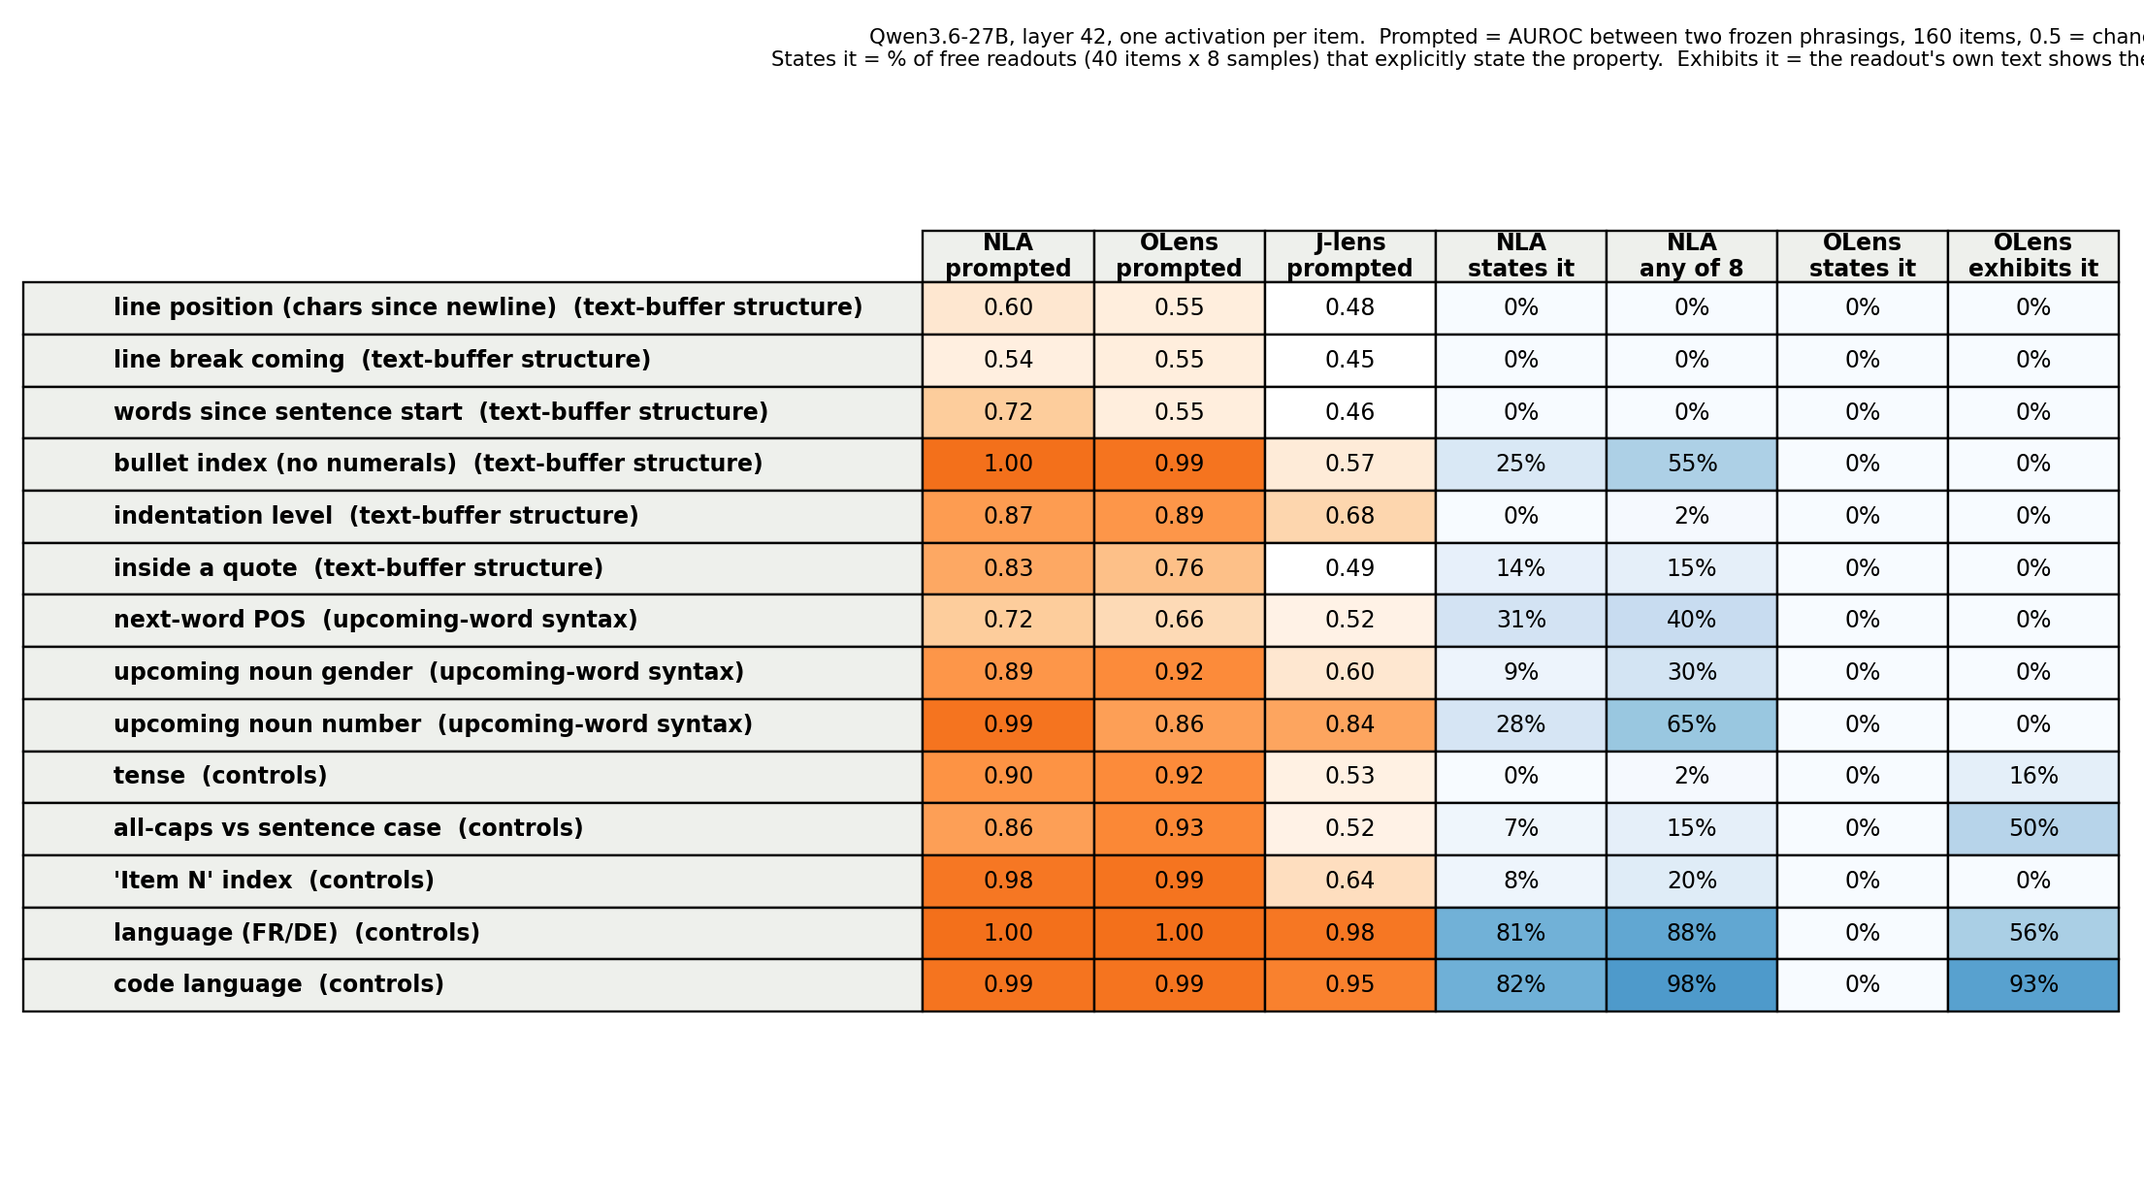
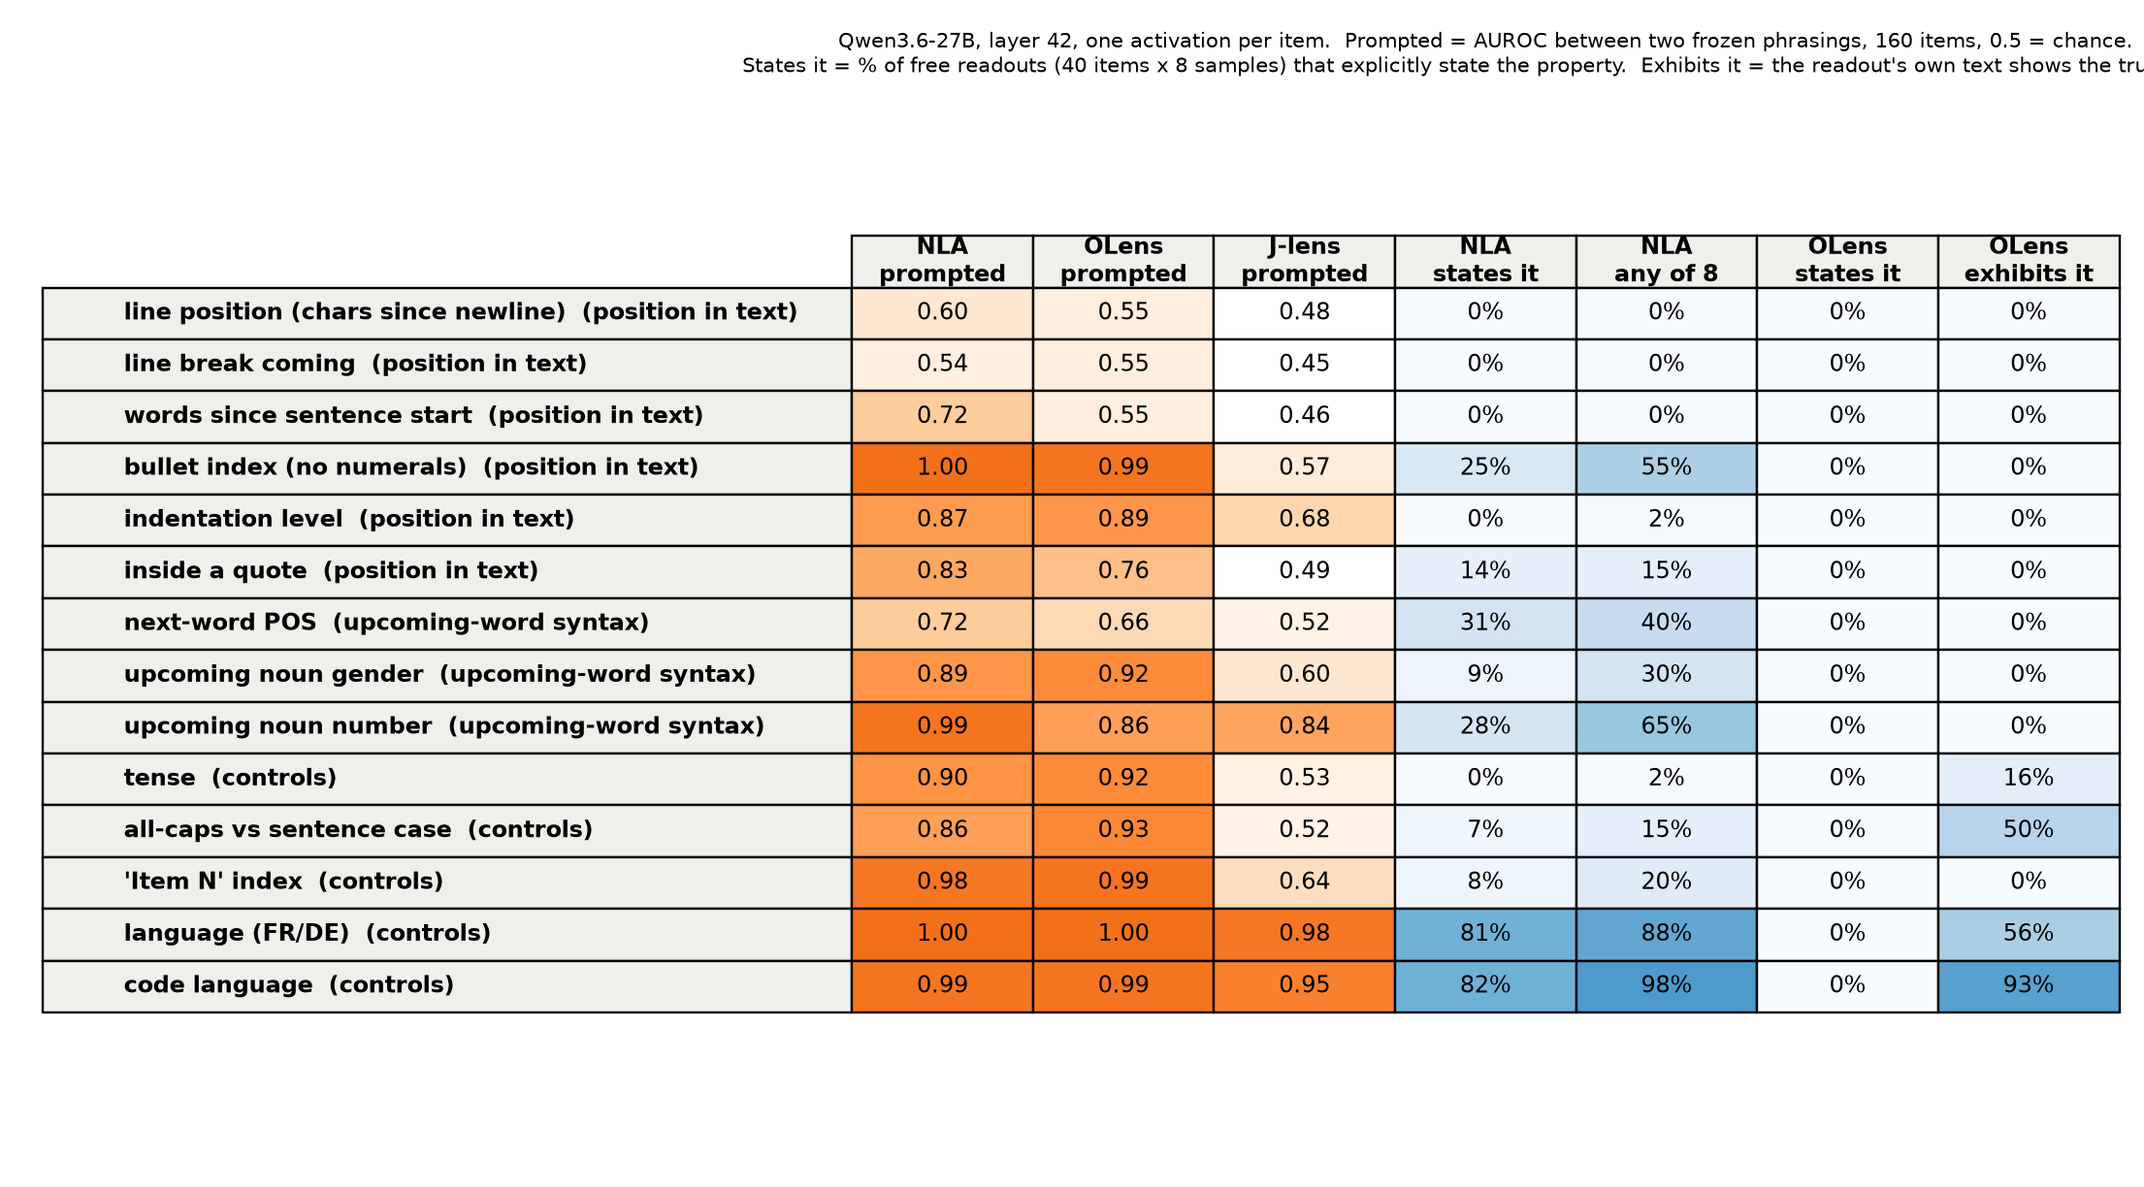
docs: rename concept group 'text-buffer structure' to 'position in text' (clash with the workspace team's term); regenerate exp 12/13 tables

Changed region(s): [[0.0, 0.1863, 0.9991, 0.8693], [0.3434, 0.0, 1.0, 0.0621]]

diff --git a/experiments/13_new_rows/combine13.py b/experiments/13_new_rows/combine13.py
@@ -17,8 +17,8 @@ from recall_lib import aggregate  # noqa: E402
 NAMES = {"tb_sentcount": "sentences into paragraph", "tb_tablecol": "table column", "tb_codeline": "line in function body",
          "tb_paren": "inside a parenthesis", "tb_wordsleft": "words left under a stated limit",
          "fmt_qa": "Q&A vs prose layout", "fmt_listdepth": "list nesting depth", "nj1_col_fresh": "line position, fresh items"}
-GROUP = {"tb_sentcount": "text-buffer structure", "tb_tablecol": "text-buffer structure", "tb_codeline": "text-buffer structure",
-         "tb_paren": "text-buffer structure", "tb_wordsleft": "text-buffer structure", "nj1_col_fresh": "text-buffer structure",
+GROUP = {"tb_sentcount": "position in text", "tb_tablecol": "position in text", "tb_codeline": "position in text",
+         "tb_paren": "position in text", "tb_wordsleft": "position in text", "nj1_col_fresh": "position in text",
          "fmt_qa": "formatting", "fmt_listdepth": "formatting"}
 ORDER = ["nj1_col_fresh", "tb_sentcount", "tb_tablecol", "tb_codeline", "tb_paren", "tb_wordsleft", "fmt_qa", "fmt_listdepth"]
 
@@ -58,7 +58,7 @@ def fmt(x: float, pct: bool) -> str:
     return f"{100 * x:.0f}%" if pct else f"{x:.2f}"
 
 
-GROUP_ORDER = ("text-buffer structure", "formatting", "upcoming-word syntax", "controls")
+GROUP_ORDER = ("position in text", "formatting", "upcoming-word syntax", "controls")
 
 
 def presentation_order(rows: list[dict]) -> list[dict]:

diff --git a/experiments/12_concept_recall/combine.py b/experiments/12_concept_recall/combine.py
@@ -14,7 +14,7 @@ HERE = Path(__file__).resolve().parent
 SEL = HERE.parents[1] / "experiments" / "07_template_mining" / "results" / "selection_table.json"
 ORDER = ["nj1_col", "nj1_col_break", "bk_wordpos", "bk_listidx", "bk_indent", "bk_quote", "nj3_predpos",
          "agr_gender", "agr_number", "nj2_tense", "bk_caps", "ij_listnum", "ij2_lang", "bk_code"]
-GROUP = {f: "text-buffer structure" for f in ORDER[:6]}
+GROUP = {f: "position in text" for f in ORDER[:6]}
 GROUP.update({f: "upcoming-word syntax" for f in ORDER[6:9]})
 GROUP.update({f: "controls (in-workspace)" for f in ORDER[9:]})
 

diff --git a/experiments/13_new_rows/feature_spec.py b/experiments/13_new_rows/feature_spec.py
@@ -1,6 +1,6 @@
 """Exp 13: new concept rows for the per-reader recall table (Neel's thread, 11 Oct).
 
-Five text-buffer rows (the kind Neel called interesting), two formatting rows (Camila's kind, for
+Five position-in-text rows (the kind Neel called interesting), two formatting rows (Camila's kind, for
 comparison), and a fresh line-position bank scored with the frozen exp 07 col templates. Same item
 shape and splits as exp 07: {id, feature, split, cluster, value, ids, text, meta}; 20 + 20 mining
 items and 80 + 80 selection items per feature.

diff --git a/experiments/13_new_rows/RESULTS.md b/experiments/13_new_rows/RESULTS.md
@@ -1,7 +1,7 @@
 # 13 New concept rows for the per-reader recall table (PILOT / EXPLORATORY)
 
 **Why.** Neel's 11 Oct thread asked, per structural concept type, how often each reader finds it, at one
-layer. Exp 12 answered with the 14 exp 07 rows. This adds five text-buffer rows (the kind Neel called
+layer. Exp 12 answered with the 14 exp 07 rows. This adds five position-in-text rows (the kind Neel called
 interesting), two formatting rows (Camila's kind, for comparison) and a fresh line-position bank, built and
 scored exactly as exp 07/12: generated items with the true value known, NLA / OLens / J-lens on the same
 L42 activation, prompted AUROC on 160 held-out items and judged spontaneous recall on 40 items × 8 samples.
@@ -12,14 +12,14 @@ scores. Judge: Gemini 3.8 Flash, 224 calls, $1.02; extraction 14 calls, $0.15.
 
 | Row | Values | Group |
 |---|---|---|
-| sentences into paragraph | 1st–2nd vs 5th+ sentence (6–15 words into it in both) | text-buffer |
-| table column | first cell vs 4th–6th cell of a markdown table row | text-buffer |
-| line in function body | body line 2–3 vs 9–12, flat indentation | text-buffer |
-| inside a parenthesis | 3+ words into an open "(" vs 4+ words after ")" | text-buffer |
-| words left under a stated limit | "Write exactly N words": 20–25 left vs 2–5 left | text-buffer |
+| sentences into paragraph | 1st–2nd vs 5th+ sentence (6–15 words into it in both) | position-in-text |
+| table column | first cell vs 4th–6th cell of a markdown table row | position-in-text |
+| line in function body | body line 2–3 vs 9–12, flat indentation | position-in-text |
+| inside a parenthesis | 3+ words into an open "(" vs 4+ words after ")" | position-in-text |
+| words left under a stated limit | "Write exactly N words": 20–25 left vs 2–5 left | position-in-text |
 | Q&A vs prose layout | same passage as "Question: … Answer: …" vs plain | formatting |
 | list nesting depth | top-level vs third-level markdown bullet | formatting |
-| line position, fresh items | exp 07's generator on unseen paragraphs; frozen nj1_col templates only | text-buffer |
+| line position, fresh items | exp 07's generator on unseen paragraphs; frozen nj1_col templates only | position-in-text |
 
 Code: `feature_spec.py`, `items_build.py` (+ `test_items_build.py`, 9 tests), `modal13.py`, exp 07's
 `extract_templates.py` / `select_freeze.py` (copied, feature tables patched), exp 12's judge via env vars,
@@ -44,9 +44,9 @@ Code: `feature_spec.py`, `items_build.py` (+ `test_items_build.py`, 9 tests), `m
   on inside items and never "outside a parenthesis". Stated values are correct whenever stated. This is the
   same habit seen on bullet index and quote state in exp 12: the NLA reports structure that constrains what
   comes next, not structure as a property of the text.
-- **Three more text-buffer counts are never spoken:** sentences into the paragraph, line number in a code
+- **Three more position-in-text counts are never spoken:** sentences into the paragraph, line number in a code
   body, words remaining under an explicit limit. Together with line position, sentence position and
-  indentation from exp 12, that is six count-like text-buffer concepts with 0% spontaneous mention.
+  indentation from exp 12, that is six count-like position-in-text concepts with 0% spontaneous mention.
 - **Formatting rows (Camila's category) are low**, 4% stated for both, so "the NLA's unique content is
   formatting" is not what we see on controlled items; what it states is completion-relevant structure.
 
@@ -71,7 +71,7 @@ Judge caveat: on table column the judge accepts "a new row/entry is beginning" a
 - **Two clean "NLA reads it, OLens half, J-lens blind" cells, robust to length:** table column (1.00 vs
   0.67 vs 0.64 on length-matched items) and parenthesis state (0.98 vs 0.76 vs 0.47). Both are also the two
   rows the NLA states unprompted (41% / 30%). These are the first prompted cells in the whole table where the
-  NLA clearly beats OLens on a text-buffer concept; on the 14 earlier rows OLens ≥ NLA on 9.
+  NLA clearly beats OLens on a position-in-text concept; on the 14 earlier rows OLens ≥ NLA on 9.
 - **Sentence count and code-line number are confounded with prefix length by construction** (late items are
   always longer; no overlap to re-score). The 0.99s say the NLA separates them but not that it does so by
   counting sentences or lines rather than tokens. Redesign for the next pass: pad early items with an

diff --git a/experiments/12_concept_recall/RESULTS.md b/experiments/12_concept_recall/RESULTS.md
@@ -22,14 +22,14 @@ Date 2026-10-22. Code: `recall_lib.py` (+ `test_recall_lib.py`, 7 tests), `run_j
 
 ## Table
 
-See `results/combined.md` / `.png`. Groups: text-buffer structure (the "interesting" kind), upcoming-word
+See `results/combined.md` / `.png`. Groups: position in text (the "interesting" kind), upcoming-word
 syntax, controls (known in-workspace features).
 
 ## What it says
 
 1. **OLens never states a property.** 0 of 4,480 OLens@42 free readouts state any of the 14
    properties. OLens is a continuation reader: it *exhibits* language (56%), code language (93%),
-   caps (50%) and tense (16%) in its own text, and exhibits nothing detectable for any text-buffer
+   caps (50%) and tense (16%) in its own text, and exhibits nothing detectable for any position-in-text
    or syntax concept. So on Camila's "concepts extracted from the readout" measure, every
    "NLA high / OLens zero" cell is automatic for anything the NLA states at all; the fair
    comparison is NLA-states vs OLens-exhibits vs prompted AUROC.
@@ -39,13 +39,13 @@ syntax, controls (known in-workspace features).
    31%, upcoming noun number 28% ("grammatically requires a plural noun"), gender 9%. These match
    Camila's description of the NLA's unique content ("document format and template structure",
    "mid-unit syntactic incompleteness and required completion category").
-3. **Three text-buffer concepts are never stated by anyone, even when the reader can discriminate
+3. **Three position-in-text concepts are never stated by anyone, even when the reader can discriminate
    them when asked.** Words since sentence start: NLA prompted 0.72 vs OLens 0.51, stated 0%. Line
    position: 0.60 / 0.55, stated 0%. Indentation: 0.87 / 0.89, stated 0% (2% of items). The
    prompted/spontaneous gap is the finding: the information is in the readers' reach but not in
    their vocabulary.
 4. **Prompted, OLens ≥ NLA on 9 of 14; the NLA leads only on words-since-sentence-start (0.72 vs
-   0.51) and quote state (0.83 vs 0.76).** J-Lens is at or near chance on every text-buffer and
+   0.51) and quote state (0.83 vs 0.76).** J-Lens is at or near chance on every position-in-text and
    syntax concept (0.45–0.68) and high only on language/code (0.95–0.98) and noun number (0.84).
    "What OLens finds that J-Lens doesn't" = tense, indentation, bullet index, quote, caps, gender,
    Item-N: 0.76–0.99 vs 0.49–0.68.
@@ -81,7 +81,7 @@ Same 14 concepts, OLens fed the layer-40, 42 or 44 activation (40 and 44 are on 
 - **Stated:** 6 of 13,420 readouts across the three layers state any property (all six are "this is
   Python" at layer 40). OLens states nothing at any layer.
 - **Exhibited:** within a few points across layers (language 56 / 56 / 59%, code 87 / 93 / 94%,
-  caps 44 / 50 / 38%, tense 8 / 16 / 16%); nothing exhibited for any text-buffer or syntax concept.
+  caps 44 / 50 / 38%, tense 8 / 16 / 16%); nothing exhibited for any position-in-text or syntax concept.
 - **Prompted:** every concept within 0.05 across 40 / 42 / 44 (largest spread: indentation 0.86 /
   0.89 / 0.91).
 

diff --git a/experiments/13_new_rows/results/combined_all.md b/experiments/13_new_rows/results/combined_all.md
@@ -1,19 +1,19 @@
 | concept type | group | NLA prompted | OLens prompted | J-lens prompted | NLA states it | NLA any-of-8 | OLens states it | OLens exhibits it |
 |---|---|---|---|---|---|---|---|---|
-| **line position, fresh items** | text-buffer structure | 0.51 | 0.49 | 0.53 | – | – | – | – |
-| **sentences into paragraph** | text-buffer structure | 0.99 | 0.65 | 0.42 | 0% | 0% | 0% | 0% |
-| **table column** | text-buffer structure | 1.00 | 0.74 | 0.64 | 41% | 57% | 0% | 0% |
-| **line in function body** | text-buffer structure | 0.99 | 0.71 | 0.48 | 0% | 0% | 0% | 0% |
-| **inside a parenthesis** | text-buffer structure | 0.96 | 0.73 | 0.47 | 30% | 38% | 0% | 0% |
-| **words left under a stated limit** | text-buffer structure | 0.58 | 0.56 | 0.55 | 0% | 0% | 0% | 0% |
+| **line position, fresh items** | position in text | 0.51 | 0.49 | 0.53 | – | – | – | – |
+| **sentences into paragraph** | position in text | 0.99 | 0.65 | 0.42 | 0% | 0% | 0% | 0% |
+| **table column** | position in text | 1.00 | 0.74 | 0.64 | 41% | 57% | 0% | 0% |
+| **line in function body** | position in text | 0.99 | 0.71 | 0.48 | 0% | 0% | 0% | 0% |
+| **inside a parenthesis** | position in text | 0.96 | 0.73 | 0.47 | 30% | 38% | 0% | 0% |
+| **words left under a stated limit** | position in text | 0.58 | 0.56 | 0.55 | 0% | 0% | 0% | 0% |
 | **Q&A vs prose layout** | formatting | 0.79 | 0.56 | 0.54 | 4% | 12% | 0% | 0% |
 | **list nesting depth** | formatting | 0.96 | 0.88 | 0.96 | 4% | 18% | 0% | 0% |
-| line position (chars since newline) | text-buffer structure | 0.60 | 0.55 | 0.48 | 0% | 0% | 0% | 0% |
-| line break coming | text-buffer structure | 0.54 | 0.55 | 0.45 | 0% | 0% | 0% | 0% |
-| words since sentence start | text-buffer structure | 0.72 | 0.55 | 0.46 | 0% | 0% | 0% | 0% |
-| bullet index (no numerals) | text-buffer structure | 1.00 | 0.99 | 0.57 | 25% | 55% | 0% | 0% |
-| indentation level | text-buffer structure | 0.87 | 0.89 | 0.68 | 0% | 2% | 0% | 0% |
-| inside a quote | text-buffer structure | 0.83 | 0.76 | 0.49 | 14% | 15% | 0% | 0% |
+| line position (chars since newline) | position in text | 0.60 | 0.55 | 0.48 | 0% | 0% | 0% | 0% |
+| line break coming | position in text | 0.54 | 0.55 | 0.45 | 0% | 0% | 0% | 0% |
+| words since sentence start | position in text | 0.72 | 0.55 | 0.46 | 0% | 0% | 0% | 0% |
+| bullet index (no numerals) | position in text | 1.00 | 0.99 | 0.57 | 25% | 55% | 0% | 0% |
+| indentation level | position in text | 0.87 | 0.89 | 0.68 | 0% | 2% | 0% | 0% |
+| inside a quote | position in text | 0.83 | 0.76 | 0.49 | 14% | 15% | 0% | 0% |
 | next-word POS | upcoming-word syntax | 0.72 | 0.66 | 0.52 | 31% | 40% | 0% | 0% |
 | upcoming noun gender | upcoming-word syntax | 0.89 | 0.92 | 0.60 | 9% | 30% | 0% | 0% |
 | upcoming noun number | upcoming-word syntax | 0.99 | 0.86 | 0.84 | 28% | 65% | 0% | 0% |

diff --git a/experiments/13_new_rows/results/combined_all_plain.md b/experiments/13_new_rows/results/combined_all_plain.md
@@ -1,17 +1,17 @@
 | concept type | group | NLA prompted | OLens prompted | J-lens prompted | NLA states it | NLA any-of-8 | OLens states it | OLens exhibits it |
 |---|---|---|---|---|---|---|---|---|
-| sentences into paragraph | text-buffer structure | 0.99 | 0.65 | 0.42 | 0% | 0% | 0% | 0% |
-| table column | text-buffer structure | 1.00 | 0.74 | 0.64 | 41% | 57% | 0% | 0% |
-| line in function body | text-buffer structure | 0.99 | 0.71 | 0.48 | 0% | 0% | 0% | 0% |
-| inside a parenthesis | text-buffer structure | 0.96 | 0.73 | 0.47 | 30% | 38% | 0% | 0% |
-| words left under a stated limit | text-buffer structure | 0.58 | 0.56 | 0.55 | 0% | 0% | 0% | 0% |
-| line position (chars since newline) | text-buffer structure | 0.60 | 0.55 | 0.48 | 0% | 0% | 0% | 0% |
-| line position, fresh items | text-buffer structure | 0.51 | 0.49 | 0.53 | – | – | – | – |
-| line break coming | text-buffer structure | 0.54 | 0.55 | 0.45 | 0% | 0% | 0% | 0% |
-| words since sentence start | text-buffer structure | 0.72 | 0.55 | 0.46 | 0% | 0% | 0% | 0% |
-| bullet index (no numerals) | text-buffer structure | 1.00 | 0.99 | 0.57 | 25% | 55% | 0% | 0% |
-| indentation level | text-buffer structure | 0.87 | 0.89 | 0.68 | 0% | 2% | 0% | 0% |
-| inside a quote | text-buffer structure | 0.83 | 0.76 | 0.49 | 14% | 15% | 0% | 0% |
+| sentences into paragraph | position in text | 0.99 | 0.65 | 0.42 | 0% | 0% | 0% | 0% |
+| table column | position in text | 1.00 | 0.74 | 0.64 | 41% | 57% | 0% | 0% |
+| line in function body | position in text | 0.99 | 0.71 | 0.48 | 0% | 0% | 0% | 0% |
+| inside a parenthesis | position in text | 0.96 | 0.73 | 0.47 | 30% | 38% | 0% | 0% |
+| words left under a stated limit | position in text | 0.58 | 0.56 | 0.55 | 0% | 0% | 0% | 0% |
+| line position (chars since newline) | position in text | 0.60 | 0.55 | 0.48 | 0% | 0% | 0% | 0% |
+| line position, fresh items | position in text | 0.51 | 0.49 | 0.53 | – | – | – | – |
+| line break coming | position in text | 0.54 | 0.55 | 0.45 | 0% | 0% | 0% | 0% |
+| words since sentence start | position in text | 0.72 | 0.55 | 0.46 | 0% | 0% | 0% | 0% |
+| bullet index (no numerals) | position in text | 1.00 | 0.99 | 0.57 | 25% | 55% | 0% | 0% |
+| indentation level | position in text | 0.87 | 0.89 | 0.68 | 0% | 2% | 0% | 0% |
+| inside a quote | position in text | 0.83 | 0.76 | 0.49 | 14% | 15% | 0% | 0% |
 | Q&A vs prose layout | formatting | 0.79 | 0.56 | 0.54 | 4% | 12% | 0% | 0% |
 | list nesting depth | formatting | 0.96 | 0.88 | 0.96 | 4% | 18% | 0% | 0% |
 | next-word POS | upcoming-word syntax | 0.72 | 0.66 | 0.52 | 31% | 40% | 0% | 0% |

diff --git a/experiments/12_concept_recall/results/combined.md b/experiments/12_concept_recall/results/combined.md
@@ -1,11 +1,11 @@
 | concept type | group | NLA prompted | OLens prompted | J-lens prompted | NLA states it | NLA any-of-8 | OLens states it | OLens exhibits it |
 |---|---|---|---|---|---|---|---|---|
-| line position (chars since newline) | text-buffer structure | 0.60 | 0.55 | 0.48 | 0% | 0% | 0% | 0% |
-| line break coming | text-buffer structure | 0.54 | 0.55 | 0.45 | 0% | 0% | 0% | 0% |
-| words since sentence start | text-buffer structure | 0.72 | 0.55 | 0.46 | 0% | 0% | 0% | 0% |
-| bullet index (no numerals) | text-buffer structure | 1.00 | 0.99 | 0.57 | 25% | 55% | 0% | 0% |
-| indentation level | text-buffer structure | 0.87 | 0.89 | 0.68 | 0% | 2% | 0% | 0% |
-| inside a quote | text-buffer structure | 0.83 | 0.76 | 0.49 | 14% | 15% | 0% | 0% |
+| line position (chars since newline) | position in text | 0.60 | 0.55 | 0.48 | 0% | 0% | 0% | 0% |
+| line break coming | position in text | 0.54 | 0.55 | 0.45 | 0% | 0% | 0% | 0% |
+| words since sentence start | position in text | 0.72 | 0.55 | 0.46 | 0% | 0% | 0% | 0% |
+| bullet index (no numerals) | position in text | 1.00 | 0.99 | 0.57 | 25% | 55% | 0% | 0% |
+| indentation level | position in text | 0.87 | 0.89 | 0.68 | 0% | 2% | 0% | 0% |
+| inside a quote | position in text | 0.83 | 0.76 | 0.49 | 14% | 15% | 0% | 0% |
 | next-word POS | upcoming-word syntax | 0.72 | 0.66 | 0.52 | 31% | 40% | 0% | 0% |
 | upcoming noun gender | upcoming-word syntax | 0.89 | 0.92 | 0.60 | 9% | 30% | 0% | 0% |
 | upcoming noun number | upcoming-word syntax | 0.99 | 0.86 | 0.84 | 28% | 65% | 0% | 0% |

diff --git a/experiments/14_ar_blindspot/RESULTS.md b/experiments/14_ar_blindspot/RESULTS.md
@@ -113,7 +113,7 @@ is blind to any *statement* of a concept, including "French language" (0.10 of t
 French bullet moves it the full gap. So OLens is rewarded for exhibiting, never for stating, and
 position-in-structure can only be exhibited by reproducing the structure, which a short bullet does
 partially (0.66 vs 0.92 for language). That is the mechanism behind "OLens states nothing" and
-behind the NLA lead on text-buffer position. The error-term study needs the AR whitening moments
+behind the NLA lead on position-in-text position. The error-term study needs the AR whitening moments
 from `agu18dec/local-workspace` (gated).
 
 ## Cost
